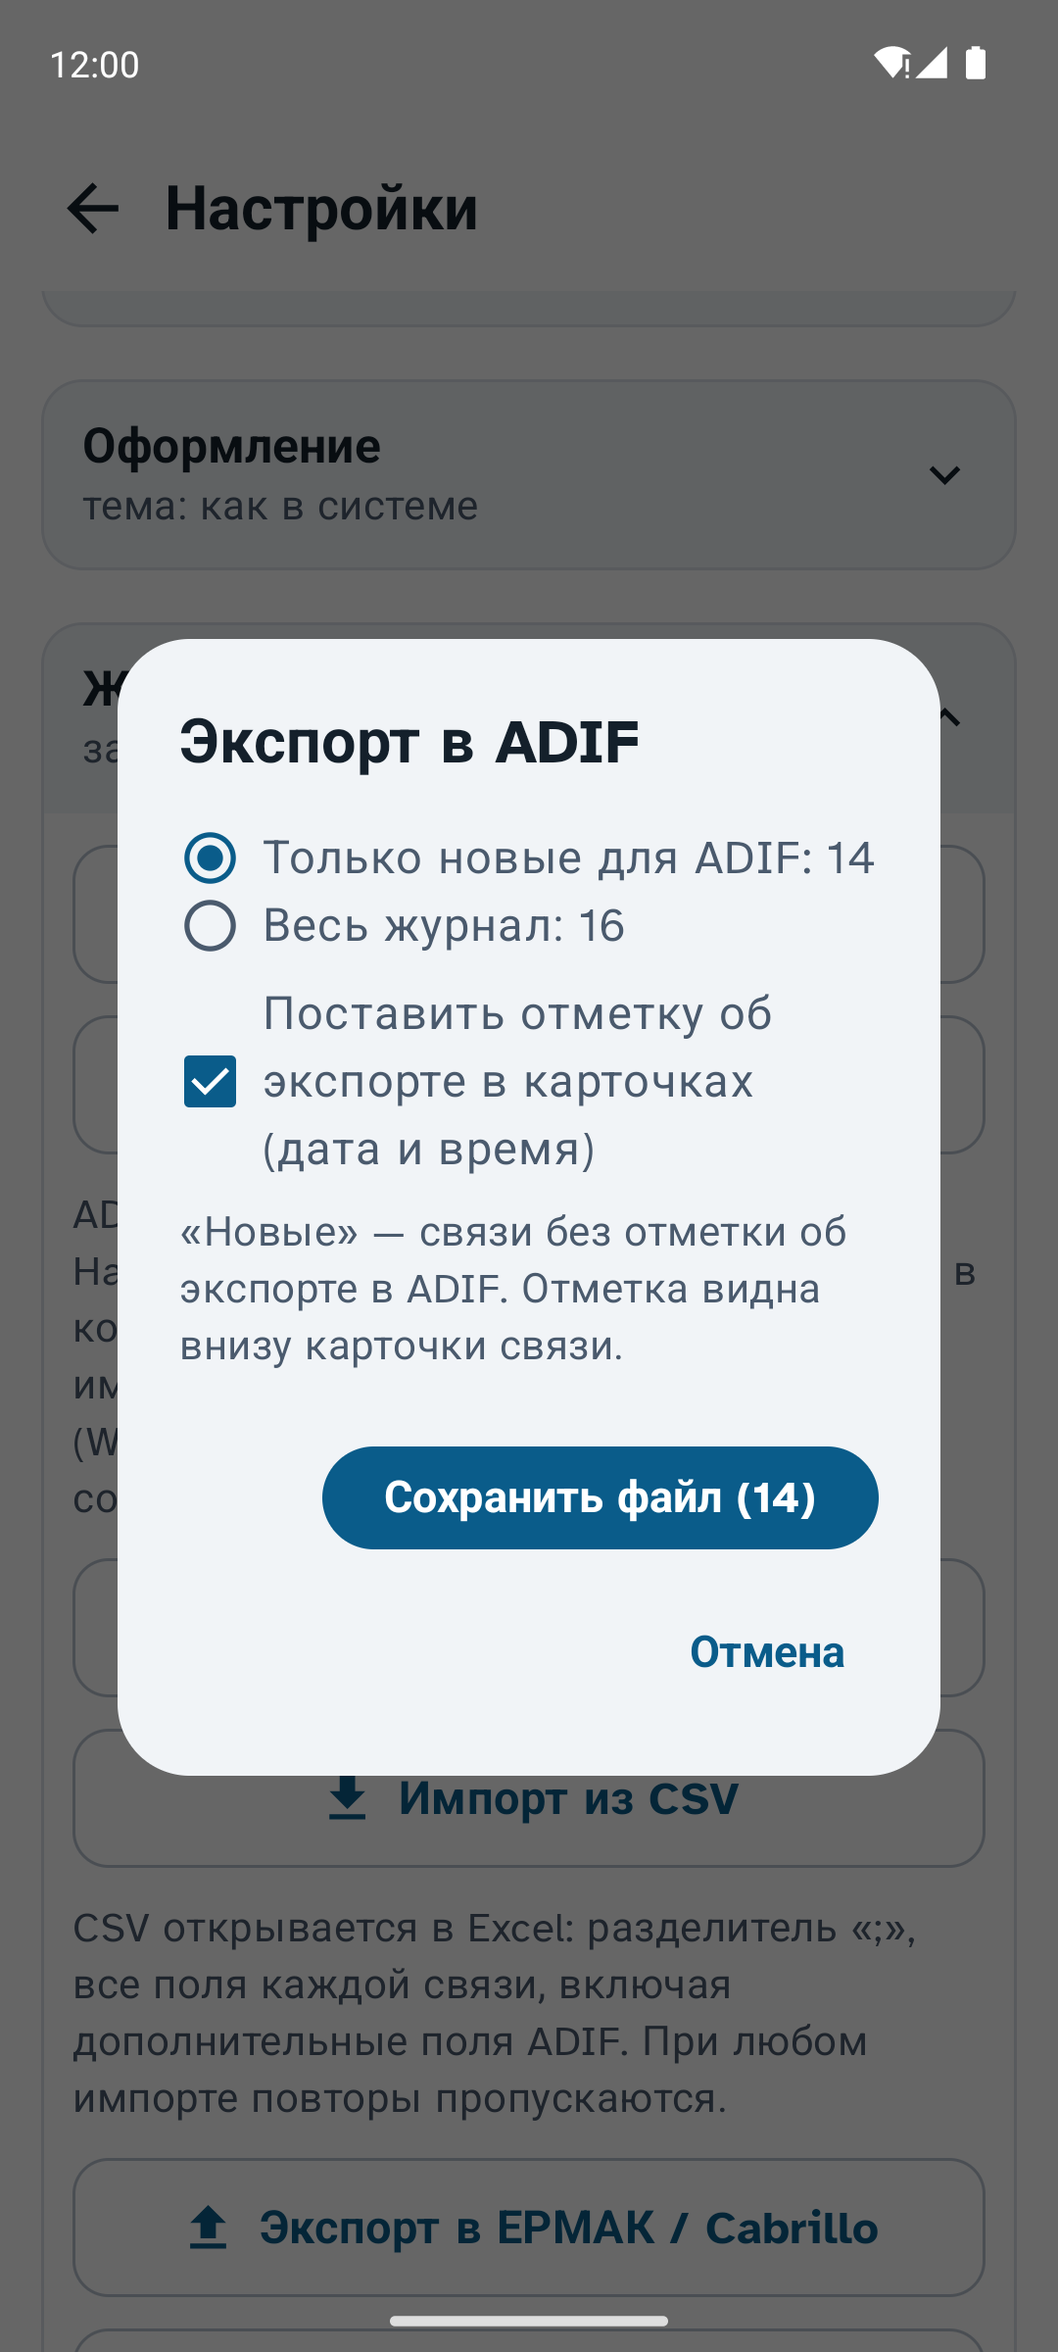
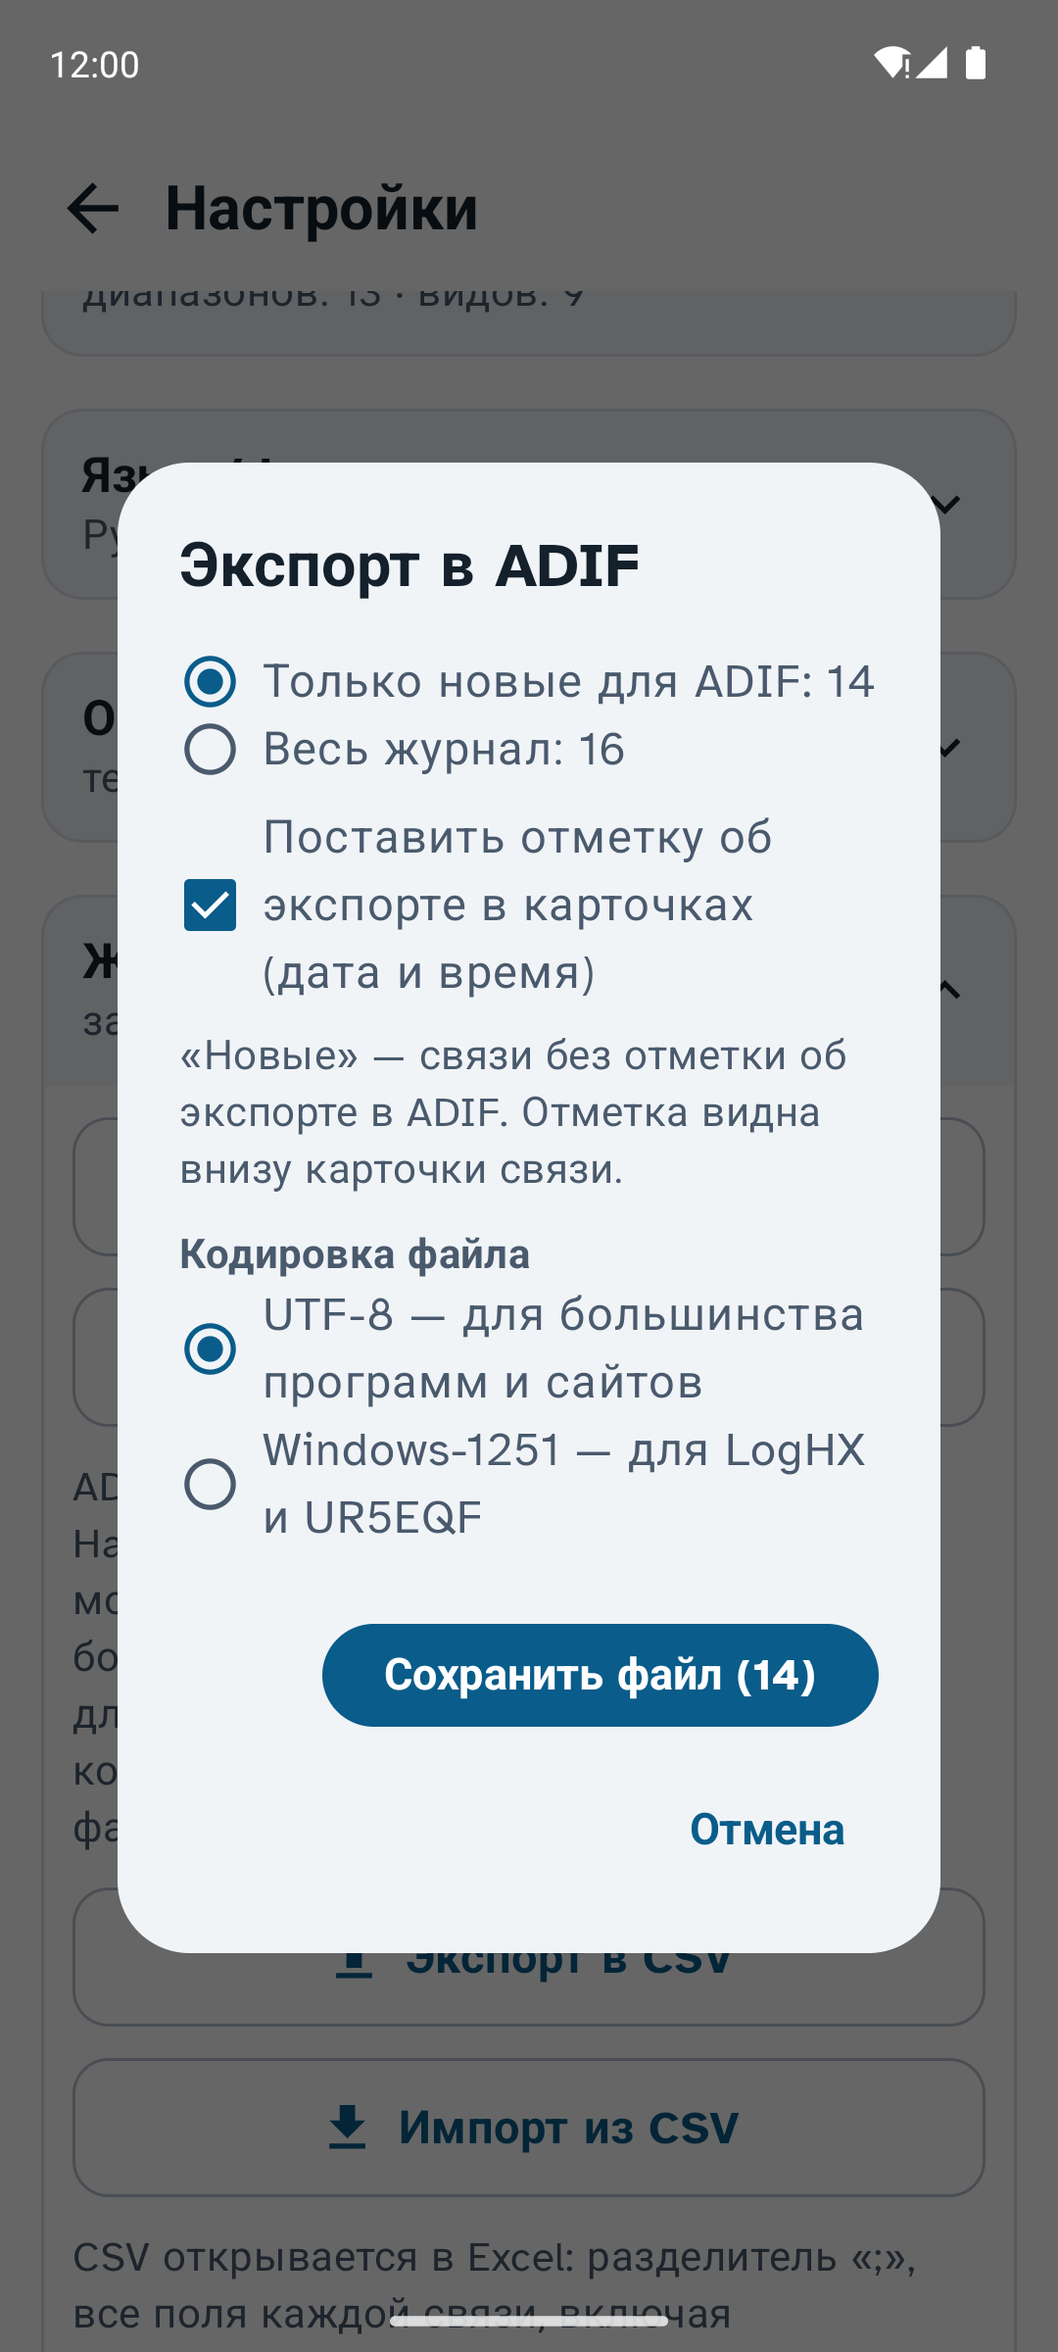
Android 0.26.1, desktop 1.11.1: ADIF export in UTF-8 by default, Windows-1251 on request

diff --git a/shared/src/main/kotlin/ru/r3xed/qsolog/I18nEn.kt b/shared/src/main/kotlin/ru/r3xed/qsolog/I18nEn.kt
@@ -180,7 +180,7 @@ internal val EN: Map<String, String> = hashMapOf(
     "записей: %s · ADIF, CSV, ЕРМАК" to "records: %s · ADIF, CSV, ERMAK",
     "Экспорт в ADIF" to "Export to ADIF",
     "Импорт из ADIF" to "Import from ADIF",
-    "ADIF (.adi) понимают LogHX, UR5EQF, HamLog, N1MM, QRZ.com. Файл сохраняется в кодировке Windows-1251, как у LogHX. При импорте кодировка определяется сама (Windows-1251 или UTF-8). Все поля файла сохраняются в карточке." to "ADIF (.adi) is read by LogHX, UR5EQF, HamLog, N1MM, QRZ.com. The file is saved in Windows-1251, like LogHX. On import the encoding is detected automatically (Windows-1251 or UTF-8). All fields of the file are kept in the card.",
+    "ADIF (.adi) понимают LogHX, UR5EQF, HamLog, N1MM, QRZ.com. При экспорте можно выбрать кодировку: UTF-8 для большинства программ или Windows-1251 для LogHX и UR5EQF. При импорте кодировка определяется сама. Все поля файла сохраняются в карточке." to "ADIF (.adi) is read by LogHX, UR5EQF, HamLog, N1MM and QRZ.com. On export you pick the encoding: UTF-8 for most programs or Windows-1251 for LogHX and UR5EQF. On import the encoding is detected automatically. Every field of the file is kept in the card.",
     "Экспорт в CSV" to "Export to CSV",
     "Импорт из CSV" to "Import from CSV",
     "CSV открывается в Excel: разделитель «;», все поля каждой связи, включая дополнительные поля ADIF. При любом импорте повторы пропускаются." to "CSV opens in Excel: “;” separator, all fields of every QSO including extra ADIF fields. Any import skips duplicates.",
@@ -649,4 +649,7 @@ internal val EN: Map<String, String> = hashMapOf(
     "«Новые» — связи без отметки об экспорте в %s. Отметка видна внизу карточки связи." to "“New” are contacts without the %s export mark. The mark shows at the bottom of the contact’s card.",
     "Экспорт: %s" to "Exported: %s",
     "не экспортировалась" to "not exported",
+    "Кодировка файла" to "File encoding",
+    "UTF-8 — для большинства программ и сайтов" to "UTF-8 — for most programs and sites",
+    "Windows-1251 — для LogHX и UR5EQF" to "Windows-1251 — for LogHX and UR5EQF",
 )

diff --git a/app/src/main/java/ru/r3xed/qsolog/ui/ExportDialog.kt b/app/src/main/java/ru/r3xed/qsolog/ui/ExportDialog.kt
@@ -41,6 +41,7 @@ import ru.r3xed.qsolog.tr
 /**
  * Before an ADIF or CSV file is saved: only the contacts not exported to this format yet (the default) or all of them,
  * and whether to mark the exported cards. [selected] is the number of records picked in the log, null for the whole log.
+ * For ADIF also the encoding: [utf8] true — UTF-8, false — Windows-1251 (LogHX, UR5EQF).
  * The same file is used by the phone and the desktop.
  */
 @Composable
@@ -50,13 +51,26 @@ fun ExportDialog(
     count: (onlyNew: Boolean) -> Int,
     onDismiss: () -> Unit,
     onConfirm: (onlyNew: Boolean, mark: Boolean) -> Unit,
+    utf8: Boolean = true,
+    onUtf8: (Boolean) -> Unit = {},
 ) {
     var onlyNew by remember { mutableStateOf(true) }
     var mark by remember { mutableStateOf(true) }
     AlertDialog(
         onDismissRequest = onDismiss,
         title = { Text(tr("Экспорт в %s", format.title)) },
-        text = { ExportChoices(format, selected, count, onlyNew, { onlyNew = it }, mark, { mark = it }) },
+        text = {
+            Column(verticalArrangement = Arrangement.spacedBy(12.dp)) {
+                ExportChoices(format, selected, count, onlyNew, { onlyNew = it }, mark, { mark = it })
+                if (format == ExportFormat.ADIF) {
+                    Column {
+                        Text(tr("Кодировка файла"), style = MaterialTheme.typography.titleSmall)
+                        Choice(tr("UTF-8 — для большинства программ и сайтов"), utf8) { onUtf8(true) }
+                        Choice(tr("Windows-1251 — для LogHX и UR5EQF"), !utf8) { onUtf8(false) }
+                    }
+                }
+            }
+        },
         confirmButton = { Button(onClick = { onConfirm(onlyNew, mark) }, enabled = count(onlyNew) > 0) { Text(tr("Сохранить файл (%s)", count(onlyNew))) } },
         dismissButton = { TextButton(onClick = onDismiss) { Text(tr("Отмена")) } },
     )

diff --git a/desktop/src/main/kotlin/ru/r3xed/qsolog/ui/ExportDialog.kt b/desktop/src/main/kotlin/ru/r3xed/qsolog/ui/ExportDialog.kt
@@ -41,6 +41,7 @@ import ru.r3xed.qsolog.tr
 /**
  * Before an ADIF or CSV file is saved: only the contacts not exported to this format yet (the default) or all of them,
  * and whether to mark the exported cards. [selected] is the number of records picked in the log, null for the whole log.
+ * For ADIF also the encoding: [utf8] true — UTF-8, false — Windows-1251 (LogHX, UR5EQF).
  * The same file is used by the phone and the desktop.
  */
 @Composable
@@ -50,13 +51,26 @@ fun ExportDialog(
     count: (onlyNew: Boolean) -> Int,
     onDismiss: () -> Unit,
     onConfirm: (onlyNew: Boolean, mark: Boolean) -> Unit,
+    utf8: Boolean = true,
+    onUtf8: (Boolean) -> Unit = {},
 ) {
     var onlyNew by remember { mutableStateOf(true) }
     var mark by remember { mutableStateOf(true) }
     AlertDialog(
         onDismissRequest = onDismiss,
         title = { Text(tr("Экспорт в %s", format.title)) },
-        text = { ExportChoices(format, selected, count, onlyNew, { onlyNew = it }, mark, { mark = it }) },
+        text = {
+            Column(verticalArrangement = Arrangement.spacedBy(12.dp)) {
+                ExportChoices(format, selected, count, onlyNew, { onlyNew = it }, mark, { mark = it })
+                if (format == ExportFormat.ADIF) {
+                    Column {
+                        Text(tr("Кодировка файла"), style = MaterialTheme.typography.titleSmall)
+                        Choice(tr("UTF-8 — для большинства программ и сайтов"), utf8) { onUtf8(true) }
+                        Choice(tr("Windows-1251 — для LogHX и UR5EQF"), !utf8) { onUtf8(false) }
+                    }
+                }
+            }
+        },
         confirmButton = { Button(onClick = { onConfirm(onlyNew, mark) }, enabled = count(onlyNew) > 0) { Text(tr("Сохранить файл (%s)", count(onlyNew))) } },
         dismissButton = { TextButton(onClick = onDismiss) { Text(tr("Отмена")) } },
     )

diff --git a/app/src/main/java/ru/r3xed/qsolog/ui/SettingsScreen.kt b/app/src/main/java/ru/r3xed/qsolog/ui/SettingsScreen.kt
@@ -302,7 +302,7 @@ fun SettingsScreen(
             SettingsBlock(tr("Журнал связей"), tr("записей: %s · ADIF, CSV, ЕРМАК", vm.total)) {
                 ActionButton(tr("Экспорт в ADIF"), Icons.Filled.FileUpload) { vm.openExport(ExportFormat.ADIF, selectedOnly = false) }
                 ActionButton(tr("Импорт из ADIF"), Icons.Filled.FileDownload, onImportAdif)
-                Note(tr("ADIF (.adi) понимают LogHX, UR5EQF, HamLog, N1MM, QRZ.com. Файл сохраняется в кодировке Windows-1251, как у LogHX. При импорте кодировка определяется сама (Windows-1251 или UTF-8). Все поля файла сохраняются в карточке."))
+                Note(tr("ADIF (.adi) понимают LogHX, UR5EQF, HamLog, N1MM, QRZ.com. При экспорте можно выбрать кодировку: UTF-8 для большинства программ или Windows-1251 для LogHX и UR5EQF. При импорте кодировка определяется сама. Все поля файла сохраняются в карточке."))
                 ActionButton(tr("Экспорт в CSV"), Icons.Filled.FileUpload) { vm.openExport(ExportFormat.CSV, selectedOnly = false) }
                 ActionButton(tr("Импорт из CSV"), Icons.Filled.FileDownload, onImportCsv)
                 Note(tr("CSV открывается в Excel: разделитель «;», все поля каждой связи, включая дополнительные поля ADIF. При любом импорте повторы пропускаются."))

diff --git a/desktop/src/main/kotlin/ru/r3xed/qsolog/ui/SettingsPane.kt b/desktop/src/main/kotlin/ru/r3xed/qsolog/ui/SettingsPane.kt
@@ -311,7 +311,7 @@ fun SettingsPane(
             SettingsBlock(tr("Журнал связей"), tr("записей: %s · ADIF, CSV, ЕРМАК", vm.total)) {
                 ActionButton(tr("Экспорт в ADIF"), Icons.Filled.FileUpload, onExportAdif)
                 ActionButton(tr("Импорт из ADIF"), Icons.Filled.FileDownload, onImportAdif)
-                Note(tr("ADIF (.adi) понимают LogHX, UR5EQF, HamLog, N1MM, QRZ.com. Файл сохраняется в кодировке Windows-1251, как у LogHX. При импорте кодировка определяется сама (Windows-1251 или UTF-8). Все поля файла сохраняются в карточке."))
+                Note(tr("ADIF (.adi) понимают LogHX, UR5EQF, HamLog, N1MM, QRZ.com. При экспорте можно выбрать кодировку: UTF-8 для большинства программ или Windows-1251 для LogHX и UR5EQF. При импорте кодировка определяется сама. Все поля файла сохраняются в карточке."))
                 ActionButton(tr("Экспорт в CSV"), Icons.Filled.FileUpload, onExportCsv)
                 ActionButton(tr("Импорт из CSV"), Icons.Filled.FileDownload, onImportCsv)
                 Note(tr("CSV открывается в Excel: разделитель «;», все поля каждой связи, включая дополнительные поля ADIF. При любом импорте повторы пропускаются."))

diff --git a/shared/src/test/kotlin/ru/r3xed/qsolog/data/AdifTest.kt b/shared/src/test/kotlin/ru/r3xed/qsolog/data/AdifTest.kt
@@ -90,4 +90,21 @@ class AdifTest {
         val m = linkedMapOf("QSL_VIA" to "L;E", "NOTES" to "a <b> c", "MY_CNTY" to "DEMO-DISTRICT")
         assertEquals(m, Adif.decodeFields(Adif.encodeFields(m)))
     }
+
+    /** A contact looked up on QRZ.ru: Cyrillic name and town survive both encodings; lengths are in the file's bytes. */
+    @Test
+    fun cyrillicInBothEncodings() {
+        val q = Qso(call = "UB3DEMO", timeUtc = 1_790_000_000_000, band = "20m", mode = "SSB", name = "Никита Агатьев", qth = "Ливны", country = "Россия")
+        for (cs in listOf(Charsets.UTF_8, Adif.WINDOWS_1251)) {
+            val out = ByteArrayOutputStream()
+            Adif.export(listOf(q), out, cs)
+            val bytes = out.toByteArray()
+            val text = String(bytes, cs)
+            assertEquals(true, text.contains("<NAME:${"Никита Агатьев".toByteArray(cs).size}>Никита Агатьев"), cs.name())
+            val r = Adif.import(bytes.inputStream())
+            assertEquals(cs, r.charset)
+            assertEquals("Никита Агатьев", r.rows.single().name)
+            assertEquals("Ливны", r.rows.single().qth)
+        }
+    }
 }

diff --git a/app/src/main/java/ru/r3xed/qsolog/AppViewModel.kt b/app/src/main/java/ru/r3xed/qsolog/AppViewModel.kt
@@ -300,6 +300,14 @@ class AppViewModel(app: Application) : AndroidViewModel(app) {
 
     private var pendingExport: PendingExport? = null
 
+    /** Encoding of ADIF files: UTF-8 by default; Windows-1251 for LogHX and UR5EQF. Remembered between exports. */
+    var adifUtf8 by mutableStateOf(prefs.adifUtf8); private set
+
+    fun chooseAdifUtf8(utf8: Boolean) {
+        adifUtf8 = utf8
+        prefs.adifUtf8 = utf8
+    }
+
     fun openExport(format: ExportFormat, selectedOnly: Boolean) {
         if (format == ExportFormat.CONTEST) openContestExport(selectedOnly)
         else exportTarget = ExportTarget(format, if (selectedOnly) selected else null)
@@ -332,7 +340,7 @@ class AppViewModel(app: Application) : AndroidViewModel(app) {
         pendingExport = null
         writeExport(p, uri, p.format.title) { list, out ->
             if (p.format == ExportFormat.CSV) Csv.export(list, out)
-            else Adif.export(list, out, program = "QSO-LOG", version = BuildConfig.VERSION_NAME)
+            else Adif.export(list, out, if (adifUtf8) Charsets.UTF_8 else Adif.WINDOWS_1251, program = "QSO-LOG", version = BuildConfig.VERSION_NAME)
         }
     }
 

diff --git a/desktop/src/main/kotlin/ru/r3xed/qsolog/AppState.kt b/desktop/src/main/kotlin/ru/r3xed/qsolog/AppState.kt
@@ -579,6 +579,14 @@ class AppState {
 
     private var pendingExport: PendingExport? = null
 
+    /** Encoding of ADIF files: UTF-8 by default; Windows-1251 for LogHX and UR5EQF. Remembered between exports. */
+    var adifUtf8 by mutableStateOf(prefs.adifUtf8); private set
+
+    fun chooseAdifUtf8(utf8: Boolean) {
+        adifUtf8 = utf8
+        prefs.adifUtf8 = utf8
+    }
+
     fun openExport(format: ExportFormat, selectedOnly: Boolean) {
         if (format == ExportFormat.CONTEST) openContestExport(selectedOnly)
         else exportTarget = ExportTarget(format, if (selectedOnly) selected else null)
@@ -612,7 +620,7 @@ class AppState {
         if (file == null) return
         writeExport(p, file, p.format.title) { list, out ->
             if (p.format == ExportFormat.CSV) Csv.export(list, out)
-            else Adif.export(list, out, program = "QSO-LOG", version = APP_VERSION)
+            else Adif.export(list, out, if (adifUtf8) Charsets.UTF_8 else Adif.WINDOWS_1251, program = "QSO-LOG", version = APP_VERSION)
         }
     }
 

diff --git a/app/src/main/java/ru/r3xed/qsolog/data/Settings.kt b/app/src/main/java/ru/r3xed/qsolog/data/Settings.kt
@@ -85,6 +85,10 @@ class Settings(context: Context) {
         get() = prefs.getBoolean("hamqth_enabled", true)
         set(v) = prefs.edit().putBoolean("hamqth_enabled", v).apply()
     /** Last ЕРМАК / Cabrillo export: format name, CONTEST code, CATEGORY-OPERATOR. */
+    /** ADIF export encoding: UTF-8 (most programs and sites) or Windows-1251 (LogHX, UR5EQF). */
+    var adifUtf8: Boolean
+        get() = prefs.getBoolean("adif_utf8", true)
+        set(v) = prefs.edit().putBoolean("adif_utf8", v).apply()
     var contestFormat: String
         get() = prefs.getString("contest_format", "ERMAK") ?: "ERMAK"
         set(v) = prefs.edit().putString("contest_format", v).apply()

diff --git a/app/src/main/java/ru/r3xed/qsolog/MainActivity.kt b/app/src/main/java/ru/r3xed/qsolog/MainActivity.kt
@@ -153,6 +153,8 @@ class MainActivity : ComponentActivity() {
                                 selected = target.only?.size,
                                 count = { onlyNew -> vm.exportCandidates(target.format, target.only, onlyNew).size },
                                 onDismiss = vm::closeExport,
+                                utf8 = vm.adifUtf8,
+                                onUtf8 = vm::chooseAdifUtf8,
                                 onConfirm = { onlyNew, mark ->
                                     val name = vm.prepareExport(onlyNew, mark)
                                     if (target.format == ExportFormat.CSV) export.launch(name) else exportAdif.launch(name)

diff --git a/shared/src/main/kotlin/ru/r3xed/qsolog/data/Adif.kt b/shared/src/main/kotlin/ru/r3xed/qsolog/data/Adif.kt
@@ -21,7 +21,8 @@ import kotlin.math.abs
  *
  * Fields with a place in the contact card map onto [Qso]; every other field is kept verbatim in [Qso.adif],
  * so a log goes through import → export without losing data.
- * Russian logs (LogHX, UR5EQF) write Windows-1251; import detects UTF-8 vs Windows-1251, export uses Windows-1251 by default.
+ * Russian logs (LogHX, UR5EQF) write Windows-1251, most other programs UTF-8; import detects which one a file is,
+ * export writes the one the user picked (UTF-8 by default in the apps).
  */
 object Adif {
     val WINDOWS_1251: Charset = Charset.forName("windows-1251")

diff --git a/desktop/src/main/kotlin/ru/r3xed/qsolog/Storage.kt b/desktop/src/main/kotlin/ru/r3xed/qsolog/Storage.kt
@@ -354,6 +354,10 @@ class Settings {
         set(v) = put("hamqth_enabled", v.toString())
 
     /** Last ЕРМАК / Cabrillo export: format name, CONTEST code, CATEGORY-OPERATOR. */
+    /** ADIF export encoding: UTF-8 (most programs and sites) or Windows-1251 (LogHX, UR5EQF). */
+    var adifUtf8: Boolean
+        get() = get("adif_utf8", "1") == "1"
+        set(v) = put("adif_utf8", if (v) "1" else "0")
     var contestFormat: String
         get() = get("contest_format", "ERMAK")
         set(v) = put("contest_format", v)
